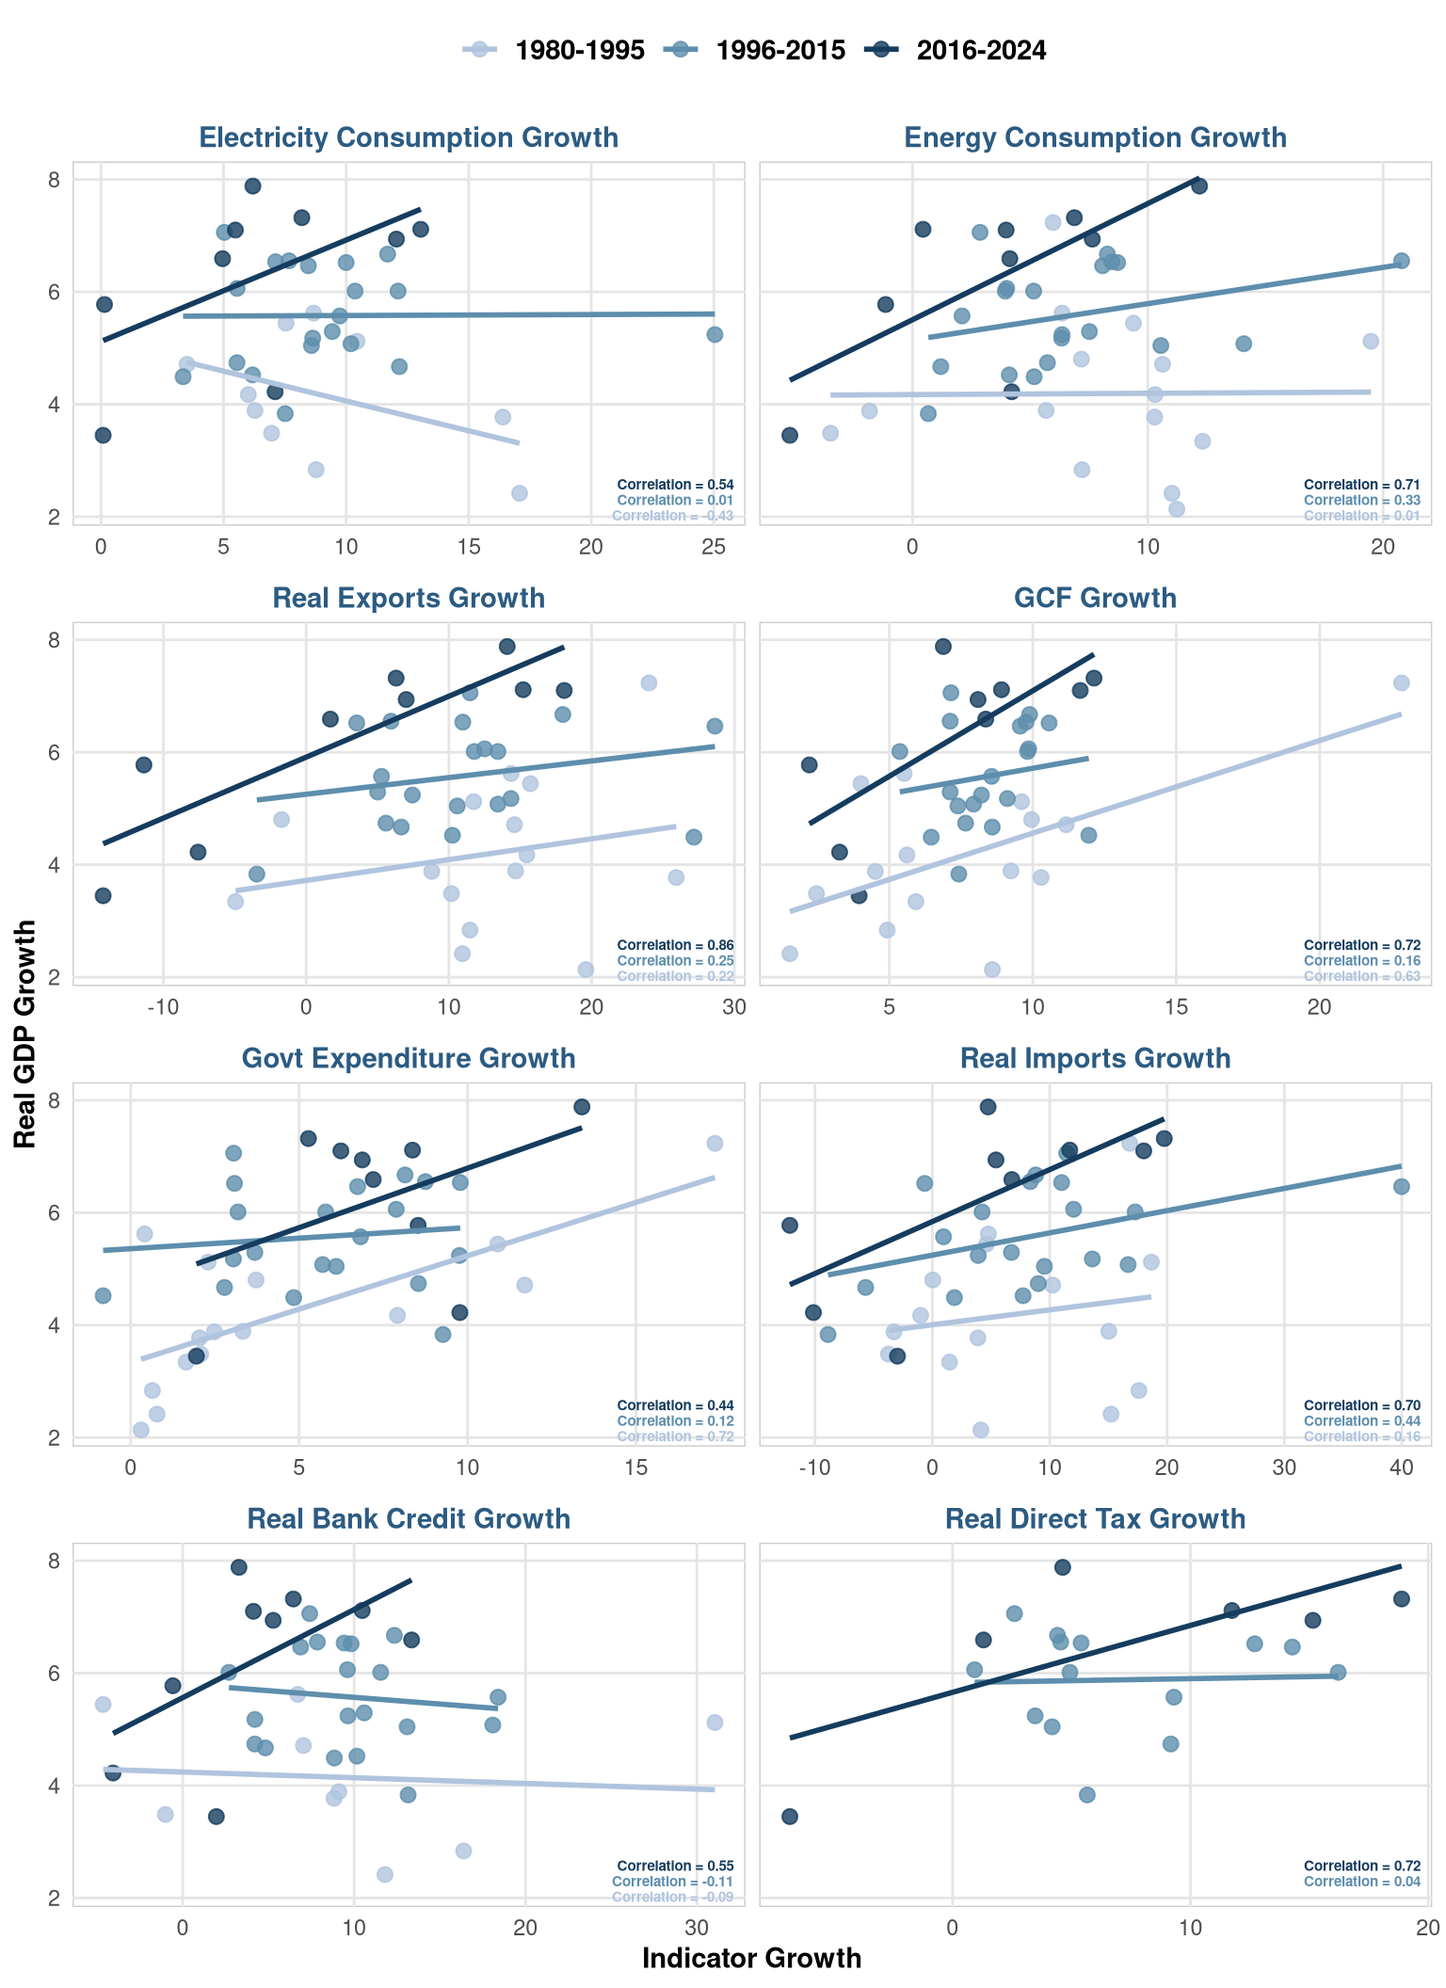
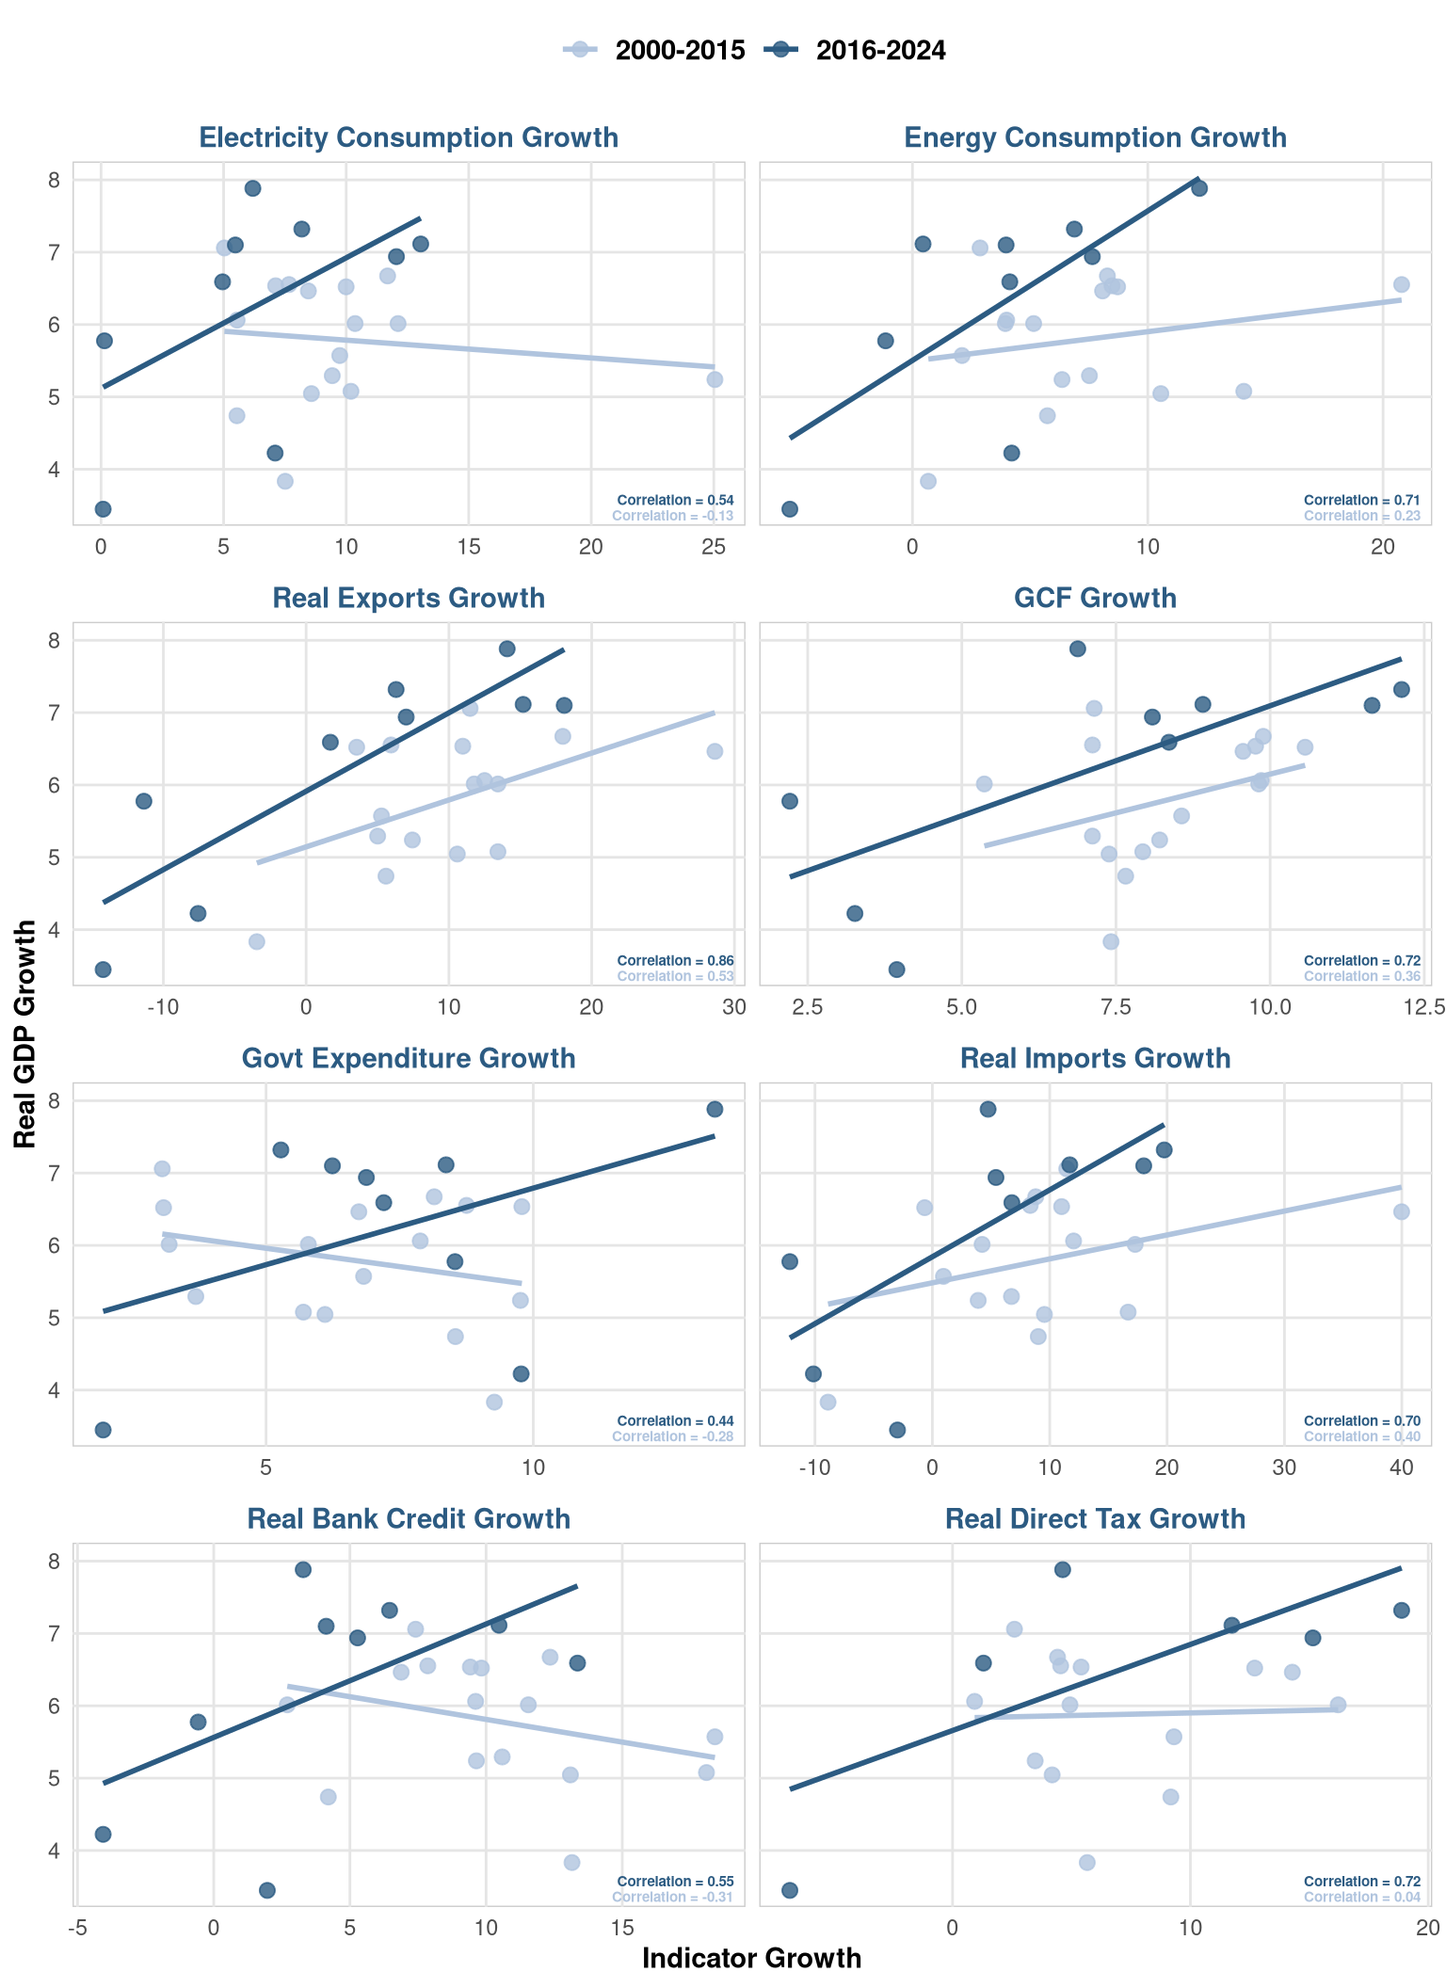
Figure labeling, added abstract etc

diff --git a/wb-gdp-estimate-analysis.html b/wb-gdp-estimate-analysis.html
@@ -6,6 +6,8 @@
 
 <meta name="viewport" content="width=device-width, initial-scale=1.0, user-scalable=yes">
 
+<meta name="author" content="Rushad Faridi,PhD">
+<meta name="author" content="Jyoti Rahman">
 
 <title>GDP estimation of Bangladesh</title>
 <style>
@@ -51,14 +53,45 @@ ul.task-list li input[type="checkbox"] {
 </div>
 
 
+<div class="quarto-title-meta-author">
+  <div class="quarto-title-meta-heading">Authors</div>
+  <div class="quarto-title-meta-heading">Affiliations</div>
+  
+    <div class="quarto-title-meta-contents">
+    <p class="author">Rushad Faridi,PhD <a href="mailto:rushad@du.ac.bd" class="quarto-title-author-email"><i class="bi bi-envelope"></i></a> </p>
+  </div>
+  <div class="quarto-title-meta-contents">
+        <p class="affiliation">
+            <a href="www.du.ac.bd">
+            University of Dhaka
+            </a>
+          </p>
+      </div>
+    <div class="quarto-title-meta-contents">
+    <p class="author">Jyoti Rahman <a href="mailto:jyoti.rahman@gmail.com" class="quarto-title-author-email"><i class="bi bi-envelope"></i></a> </p>
+  </div>
+  <div class="quarto-title-meta-contents">
+        <p class="affiliation">
+            <a href="www.imf.org">
+            IMF
+            </a>
+          </p>
+      </div>
+  </div>
 
 <div class="quarto-title-meta">
 
-    
+      
   
     
   </div>
   
+<div>
+  <div class="abstract">
+    <div class="block-title">Abstract</div>
+    This paper investigates a profound macroeconomic anomaly in Bangladesh’s official economic statistics during the 2016–2024 period. Utilizing historical growth rate comparisons, bivariate elasticities, and predictive regression modeling, we examine the relationship between reported Real GDP growth and key macroeconomic fundamentals across three historical epochs spanning 1980 to 2024. Our findings reveal a stark decoupling paradox: while official Real GDP growth accelerates to peak historical levels in the contemporary era, underlying private and real sector activity indicators—including energy consumption, external trade volumes, gross capital formation, and domestic credit—exhibit severe deceleration. Predictive modeling confirms that actual reported aggregate output violently departs from econometric projections based on historical covariates, manifesting as an extreme positive residual. This systemic structural break suggests that recent official growth metrics are empirically unmoored from the real economy, pointing strongly toward a growth model masked by public spending or significant statistical overestimation.
+  </div>
+</div>
 
 
 </header>
@@ -83,15 +116,22 @@ ul.task-list li input[type="checkbox"] {
 <!-- getting the data ready -->
 <section id="comparison-of-growth-rates" class="level2">
 <h2 class="anchored" data-anchor-id="comparison-of-growth-rates">Comparison of growth rates</h2>
+<p><a href="#fig-macro-growth" class="quarto-xref">Figure&nbsp;1</a> illustrates the average annual growth rates of nine key macroeconomic indicators across three distinct historical epochs: 1980-2000, 2001-2015, and 2016-2024. The data captures various dimensions of the economy, including fiscal policy, real economic activity proxies, financial depth, external trade, investment, and aggregate output. A rigorous analysis of these indicators reveals a profound structural divergence in the macroeconomic data during the most recent period (2016-2024) compared to historical trends. The most salient feature of this divergence is the stark decoupling of aggregate output from its underlying macroeconomic fundamentals. While official real GDP growth demonstrates a steady, secular acceleration across all three periods—rising from 4.4% in 1980-2000 to 5.8% in 2001-2015, and peaking at 6.3% in the 2016-2024 period—virtually every other indicator of private and real sector activity exhibits a severe deceleration during this exact same final epoch.</p>
+<p>This aggregate acceleration contrasts sharply with the collapse of hard proxies for economic activity. Physical indicators, such as energy use, are frequently utilized as highly reliable, hard-to-manipulate proxies for industrial output and overall economic health. However, energy consumption growth halved from 7.3% in the previous two periods to just 3.7% in 2016-2024, while electricity consumption similarly decelerated from a peak of 9.6% to 6.4%. This sharp contraction in energy demand is highly inconsistent with an accelerating, industrializing economy. Furthermore, the external and financial sectors point toward a macroeconomic environment constrained by tightening credit and a slowing global footprint. Export volume growth experienced a severe, multi-decade collapse, dropping from a historical high of 12.6% to a sluggish 3.2% in the most recent period. Import volume mirrored this trend, plunging to 4.6%, indicating a dual loss of export competitiveness and compressed domestic demand for imported capital and intermediate goods. Concurrently, real domestic credit growth cratered from 10.3% to 4.5%, suggesting heavily constrained private sector borrowing, while gross capital formation (GCF) dropped to 7.3%, breaking its historical stability.</p>
+<p>Notably, the only indicators that align with or exceed the upward trajectory of real GDP are fiscal metrics. Government expenditure steadily climbed to 7.5% in the most recent period, accompanied by a corresponding rise in real tax revenue growth to 7.5%. This suggests that economic expansion in the latest epoch has become increasingly reliant on public sector spending rather than private sector dynamism. Ultimately, this visual evidence articulates a critical macroeconomic anomaly wherein official aggregate output reports robust acceleration despite profound deceleration in trade volumes, domestic credit, investment, and energy consumption. Analytically, this divergence suggests one of three possibilities: a radical, structural shift in the economy toward highly energy-efficient, non-tradeable, and non-credit-intensive sectors; a growth model heavily over-reliant on government expenditure that masks private-sector stagnation; or systemic measurement discrepancies resulting in the statistical overestimation of real GDP during the 2016-2024 period.</p>
 <!-- Calculate average growth -->
 <!-- set ggplot theme -->
 <!-- actual bar diagram -->
 <div class="cell fig-cap-location-top">
 <div class="cell-output-display">
-<div class="quarto-figure quarto-figure-center">
-<figure class="figure">
-<p><img src="wb-gdp-estimate-analysis_files/figure-html/unnamed-chunk-9-1.png" class="img-fluid figure-img" width="672"></p>
-<figcaption>Comparison of growth rates of different macro variables</figcaption>
+<div id="fig-macro-growth" class="quarto-float quarto-figure quarto-figure-center anchored" data-cap-location="top">
+<figure class="quarto-float quarto-float-fig figure">
+<figcaption class="quarto-float-caption-top quarto-float-caption quarto-float-fig" id="fig-macro-growth-caption-0ceaefa1-69ba-4598-a22c-09a6ac19f8ca">
+Figure&nbsp;1: Comparison of growth rates of different macro variables
+</figcaption>
+<div aria-describedby="fig-macro-growth-caption-0ceaefa1-69ba-4598-a22c-09a6ac19f8ca">
+<img src="wb-gdp-estimate-analysis_files/figure-html/fig-macro-growth-1.png" class="img-fluid figure-img" width="672">
+</div>
 </figure>
 </div>
 </div>
@@ -101,12 +141,19 @@ ul.task-list li input[type="checkbox"] {
 <h2 class="anchored" data-anchor-id="gdp-growth-and-other-macroeconomic-variables">GDP growth and other macroeconomic variables</h2>
 <section id="comparison-since-1980" class="level3">
 <h3 class="anchored" data-anchor-id="comparison-since-1980">Comparison since 1980</h3>
+<p><a href="#fig-scatter-all" class="quarto-xref">Figure&nbsp;2</a> presents a matrix of scatter plots detailing the bivariate relationships between real GDP growth—plotted continuously on the y-axis—and eight macroeconomic indicators across three distinct temporal regimes: 1980-1995, 1996-2015, and 2016-2024. Through linear fit lines and the spatial distribution of data clusters, these panels map the shifting macroeconomic elasticities of aggregate output relative to energy consumption, external trade, financial deepening, investment, and fiscal variables.</p>
+<p>A rigorous examination of these spatial distributions reveals a systemic structural break in the growth elasticities during the 2016-2024 epoch. In the historical regimes, particularly from 1996 to 2015, robust real GDP growth was generally predicated upon commensurate expansions in physical and financial proxies; the data points for these periods are distributed broadly across the x-axis, demonstrating standard covariation. Conversely, the 2016-2024 observations universally exhibit a pronounced upward and leftward translation in coordinate space. This distinct clustering indicates that historically high levels of reported GDP growth (the upward shift on the y-axis) are materializing simultaneously with severely compressed growth in the underlying indicators (the leftward shift on the x-axis). The aggressive steepening of the linear trend lines in this latest period further highlights the anomaly, mathematically implying an implausible macroeconomic elasticity where marginal, stagnant, or even negative growth in hard fundamentals—such as export volumes, real bank credit, and energy consumption—coincides with peak economic expansion.</p>
+<p>This bivariate analysis provides the mechanistic statistical foundation for the divergence paradox identified in the previously analyzed bar chart. While the bar diagram illustrated the absolute decoupling of period averages—highlighting accelerating GDP amidst decelerating macroeconomic fundamentals—the scatter plots expose the total breakdown of the historical covariance structure itself. The persistent leftward-and-upward migration of the 2016-2024 data clusters visually confirms that the official GDP metric has unmoored from its traditional macroeconomic determinants. Historically, as the 1996-2015 data illustrates, achieving a 6% GDP expansion frequently required 10% to 20% growth in exports or domestic credit. The contemporary data implies the economy now achieves and exceeds this output with near-zero or vastly diminished growth in those exact same inputs. This statistical decoupling strongly corroborates the prior diagnostic hypothesis: the recent acceleration in official aggregate output cannot be empirically reconciled with the underlying real economy dynamics, thereby amplifying academic concerns regarding systemic statistical overestimation rather than a genuine, productivity-driven structural transformation.</p>
 <div class="cell fig-cap-location-top" data-layout-align="center">
 <div class="cell-output-display">
-<div class="quarto-figure quarto-figure-center">
-<figure class="figure">
-<p><img src="wb-gdp-estimate-analysis_files/figure-html/unnamed-chunk-10-1.png" class="img-fluid figure-img" style="width:85.0%"></p>
-<figcaption>Scatter plots between GDP growth and macroeconomic variables</figcaption>
+<div id="fig-scatter-all" class="quarto-float quarto-figure quarto-figure-center anchored" data-cap-location="top" data-fig-align="center">
+<figure class="quarto-float quarto-float-fig figure">
+<figcaption class="quarto-float-caption-top quarto-float-caption quarto-float-fig" id="fig-scatter-all-caption-0ceaefa1-69ba-4598-a22c-09a6ac19f8ca">
+Figure&nbsp;2: Scatter plots between GDP growth and macroeconomic variables
+</figcaption>
+<div aria-describedby="fig-scatter-all-caption-0ceaefa1-69ba-4598-a22c-09a6ac19f8ca">
+<img src="wb-gdp-estimate-analysis_files/figure-html/fig-scatter-all-1.png" class="img-fluid quarto-figure quarto-figure-center figure-img" style="width:85.0%">
+</div>
 </figure>
 </div>
 </div>
@@ -116,10 +163,14 @@ ul.task-list li input[type="checkbox"] {
 <h3 class="anchored" data-anchor-id="comparison-since-2000">Comparison since 2000</h3>
 <div class="cell fig-cap-location-top" data-layout-align="center">
 <div class="cell-output-display">
-<div class="quarto-figure quarto-figure-center">
-<figure class="figure">
-<p><img src="wb-gdp-estimate-analysis_files/figure-html/unnamed-chunk-11-1.png" class="img-fluid figure-img" style="width:85.0%"></p>
-<figcaption>Scatter plots between GDP growth and macroeconomic variables</figcaption>
+<div id="fig-scatter-2000" class="quarto-float quarto-figure quarto-figure-center anchored" data-cap-location="top" data-fig-align="center">
+<figure class="quarto-float quarto-float-fig figure">
+<figcaption class="quarto-float-caption-top quarto-float-caption quarto-float-fig" id="fig-scatter-2000-caption-0ceaefa1-69ba-4598-a22c-09a6ac19f8ca">
+Figure&nbsp;3: Scatter plots between GDP growth and macroeconomic variables
+</figcaption>
+<div aria-describedby="fig-scatter-2000-caption-0ceaefa1-69ba-4598-a22c-09a6ac19f8ca">
+<img src="wb-gdp-estimate-analysis_files/figure-html/fig-scatter-2000-1.png" class="img-fluid quarto-figure quarto-figure-center figure-img" style="width:85.0%">
+</div>
 </figure>
 </div>
 </div>
@@ -128,13 +179,19 @@ ul.task-list li input[type="checkbox"] {
 </section>
 <section id="regression-results" class="level2">
 <h2 class="anchored" data-anchor-id="regression-results">Regression results</h2>
+<p>Building upon the bivariate breakdown illustrated in the preceding scatter plots, the <a href="#fig-reg-pred" class="quarto-xref">Figure&nbsp;4</a> presents a formalized econometric synthesis by plotting actual versus predicted real GDP growth for Bangladesh across two temporal regimes: 2001-2015 and 2016-2024. The visualization features a regression line with an accompanying confidence interval, mapping the expected trajectory of aggregate output based on a predictive model—presumably a function of the underlying macroeconomic fundamentals analyzed in the previous sections. A rigorous examination of this figure provides definitive statistical quantification of the divergence paradox. During the 2001-2015 period, the observation for Bangladesh lies in close proximity to the regression line and firmly near the predictive confidence bounds. In this era, the actual reported real GDP growth (approximately 6%) is highly consistent with the predicted growth, indicating that the official aggregate output figures were statistically grounded in and accurately reflected the contemporary macroeconomic realities of trade, investment, and energy consumption.</p>
+<p>In stark contrast, the 2016-2024 panel exposes a profound structural break and a massive prediction error. While the predicted growth for Bangladesh contracts significantly—shifting leftward on the x-axis to approximately 5%—the actual reported growth accelerates, shifting upward on the y-axis. Consequently, the Bangladesh data point completely detaches from the established regression trend, manifesting as an extreme positive residual residing far outside the statistical confidence interval. This visualization serves as the macroeconomic capstone to the preceding bar and scatter charts. Because the hard proxies for economic activity (such as export volumes, domestic credit, and electricity consumption) collapsed during the 2016-2024 epoch, any rigorous econometric model will naturally predict a corresponding deceleration in aggregate output. The glaring reality that official GDP figures violently defied this downward prediction mathematically formalizes the anomaly. Ultimately, this predictive dislocation confirms that the recent acceleration in official GDP cannot be empirically justified by the nation’s underlying macroeconomic covariates, providing compelling econometric evidence that the reported growth figures during the 2016-2024 period are systematically unmoored from the real economy.</p>
 <!-- drawing the plots -->
 <div class="cell fig-cap-location-top" data-layout-align="center">
 <div class="cell-output-display">
-<div class="quarto-figure quarto-figure-center">
-<figure class="figure">
-<p><img src="wb-gdp-estimate-analysis_files/figure-html/unnamed-chunk-12-1.png" class="img-fluid figure-img" style="width:85.0%"></p>
-<figcaption>Actual vs.&nbsp;Predicted Real GDP Growth for Bangladesh</figcaption>
+<div id="fig-reg-pred" class="quarto-float quarto-figure quarto-figure-center anchored" data-cap-location="top" data-fig-align="center">
+<figure class="quarto-float quarto-float-fig figure">
+<figcaption class="quarto-float-caption-top quarto-float-caption quarto-float-fig" id="fig-reg-pred-caption-0ceaefa1-69ba-4598-a22c-09a6ac19f8ca">
+Figure&nbsp;4: Actual vs.&nbsp;Predicted Real GDP Growth for Bangladesh
+</figcaption>
+<div aria-describedby="fig-reg-pred-caption-0ceaefa1-69ba-4598-a22c-09a6ac19f8ca">
+<img src="wb-gdp-estimate-analysis_files/figure-html/fig-reg-pred-1.png" class="img-fluid quarto-figure quarto-figure-center figure-img" style="width:85.0%">
+</div>
 </figure>
 </div>
 </div>
